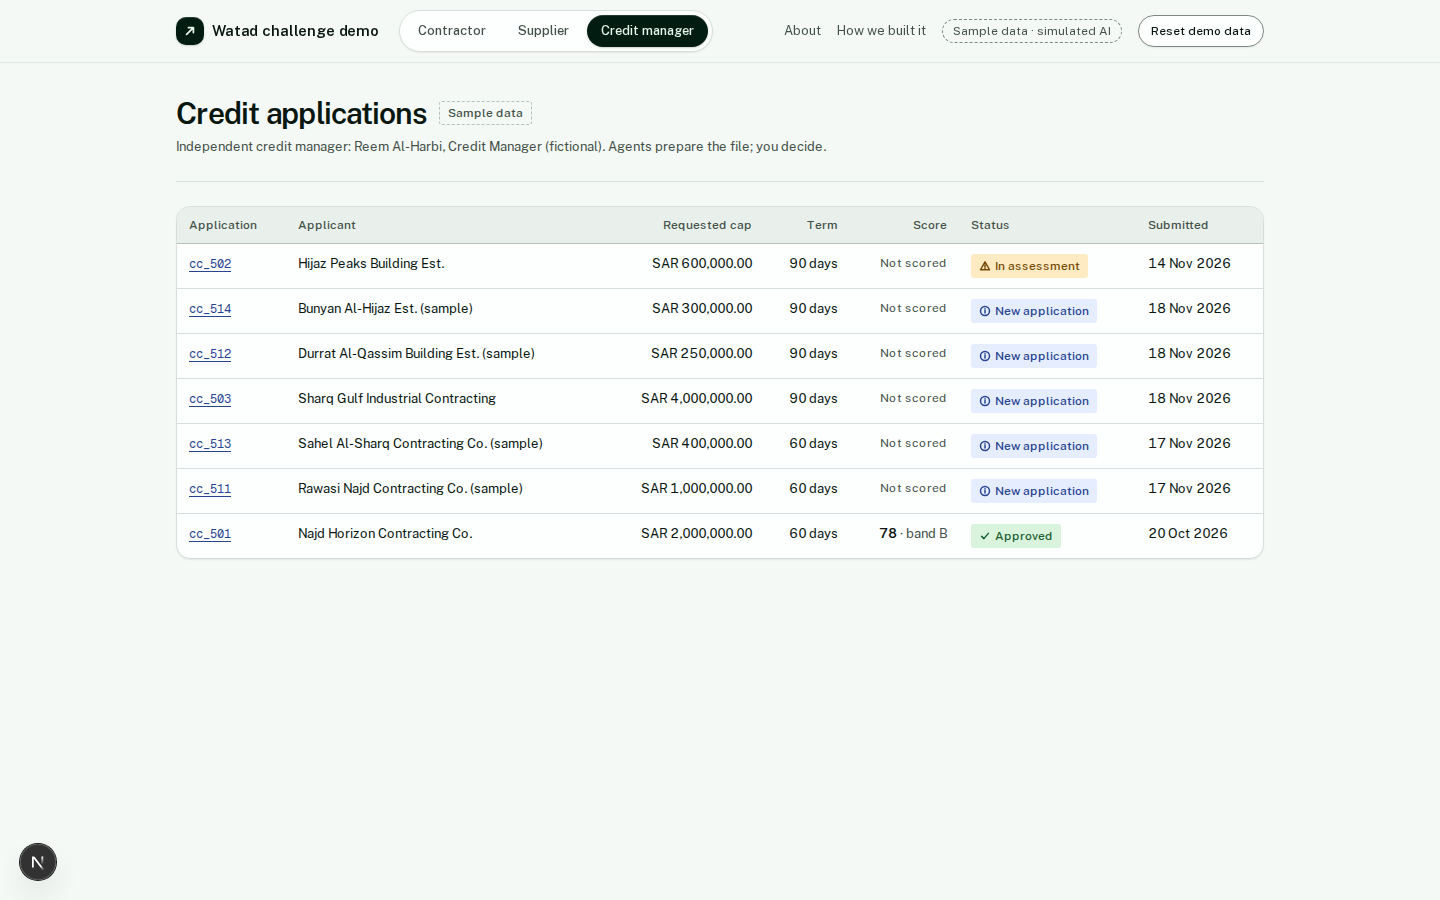
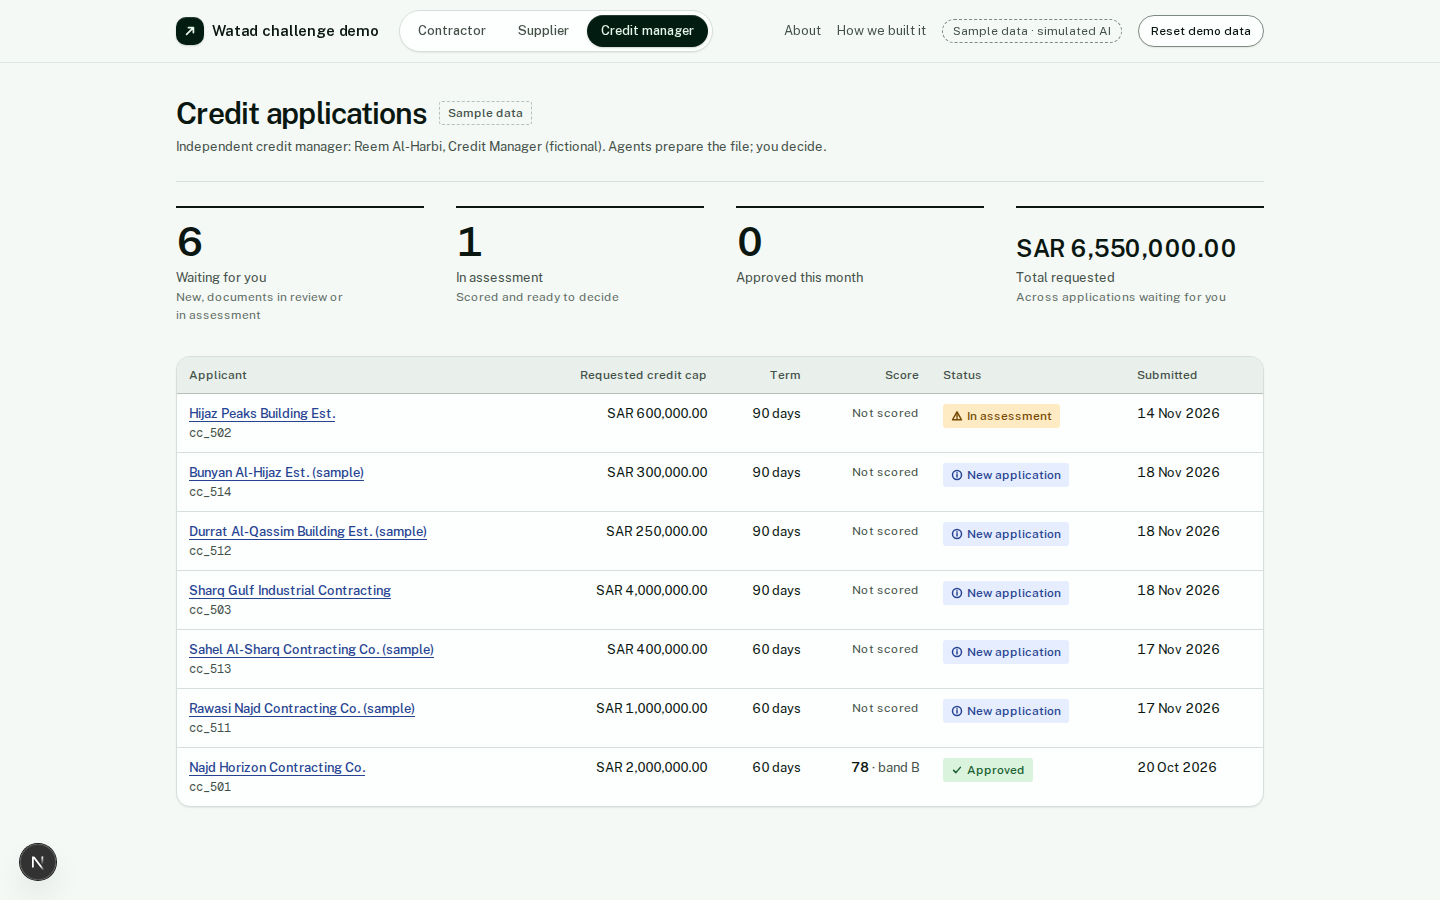
feat(credit): queue opens on its key figures
StatStrip from #68 above the credit queue: waiting for you, in
assessment, approved this month, total requested across waiting
applications (design review item 4).

Refs #13

diff --git a/src/components/credit/manager/queue.tsx b/src/components/credit/manager/queue.tsx
@@ -6,7 +6,8 @@ import { applicantName, reference } from "@/data";
 import { formatSar } from "@/domain/money";
 import type { CreditCase } from "@/domain/types";
 import { useDemo } from "@/store";
-import { CellNote, EmptyState, LoadingRows, Table, Td, Th, THead, Tr } from "@/components/ui";
+import { CellNote, EmptyState, LoadingRows, StatStrip, Table, Td, Th, THead, Tr } from "@/components/ui";
+import { useToday } from "../use-today";
 import { useHydrated } from "../client-state";
 import { CaseStatus, shortDate } from "./shared";
 
@@ -20,6 +21,16 @@ export function CreditQueue() {
     [all],
   );
   const hydrated = useHydrated();
+  const month = useToday().slice(0, 7);
+  const stats = useMemo(() => {
+    const waiting = all.filter((c) => c.status === "submitted" || c.status === "documents_review" || c.status === "in_assessment");
+    return [
+      { label: "Waiting for you", value: String(waiting.length), note: "New, documents in review or in assessment" },
+      { label: "In assessment", value: String(all.filter((c) => c.status === "in_assessment").length), note: "Ready for your decision" },
+      { label: "Approved this month", value: String(all.filter((c) => c.status === "approved" && c.decision?.decidedAt.slice(0, 7) === month).length) },
+      { label: "Total requested", value: formatSar(waiting.reduce((sum, c) => sum + c.requestedCap, 0) as typeof all[number]["requestedCap"]), note: "Across applications waiting for you", compact: true },
+    ];
+  }, [all, month]);
   if (!hydrated) return <LoadingRows rows={6} label="Loading credit applications" />;
   if (cases.length === 0) {
     return (
@@ -29,38 +40,43 @@ export function CreditQueue() {
     );
   }
   return (
-    <Table caption="Credit applications" minWidth={760}>
-      <THead>
-        <tr>
-          <Th>Applicant</Th>
-          <Th align="end">Requested credit cap</Th>
-          <Th align="end">Term</Th>
-          <Th align="end">Score</Th>
-          <Th>Status</Th>
-          <Th>Submitted</Th>
-        </tr>
-      </THead>
-      <tbody>
-        {cases.map((c) => (
-          <Tr key={c.id} data-testid={`credit-queue-row-${c.id}`}>
-            <Td>
-              <Link href={`/credit/cases/${c.id}`} className="font-medium text-stamp underline underline-offset-[3px]">
-                {applicantName(c.contractorId, reference.contractors)}
-              </Link>
-              <CellNote>
-                <span className="font-mono">{c.id}</span>
-              </CellNote>
-            </Td>
-            <Td align="end">{formatSar(c.requestedCap)}</Td>
-            <Td align="end">{c.requestedTenorDays} days</Td>
-            <Td align="end">{c.scorecard ? <span className="font-semibold tabular-nums text-ink">{Math.round(c.scorecard.total)}<span className="font-normal text-ink-muted"> · band {c.scorecard.band}</span></span> : <CellNote>Not scored</CellNote>}</Td>
-            <Td>
-              <CaseStatus status={c.status} />
-            </Td>
-            <Td>{shortDate(c.submittedAt)}</Td>
-          </Tr>
-        ))}
-      </tbody>
-    </Table>
+    <div className="space-y-8">
+      <div data-testid="credit-queue-stats">
+        <StatStrip items={stats} />
+      </div>
+      <Table caption="Credit applications" minWidth={760}>
+        <THead>
+          <tr>
+            <Th>Applicant</Th>
+            <Th align="end">Requested credit cap</Th>
+            <Th align="end">Term</Th>
+            <Th align="end">Score</Th>
+            <Th>Status</Th>
+            <Th>Submitted</Th>
+          </tr>
+        </THead>
+        <tbody>
+          {cases.map((c) => (
+            <Tr key={c.id} data-testid={`credit-queue-row-${c.id}`}>
+              <Td>
+                <Link href={`/credit/cases/${c.id}`} className="font-medium text-stamp underline underline-offset-[3px]">
+                  {applicantName(c.contractorId, reference.contractors)}
+                </Link>
+                <CellNote>
+                  <span className="font-mono">{c.id}</span>
+                </CellNote>
+              </Td>
+              <Td align="end">{formatSar(c.requestedCap)}</Td>
+              <Td align="end">{c.requestedTenorDays} days</Td>
+              <Td align="end">{c.scorecard ? <span className="font-semibold tabular-nums text-ink">{Math.round(c.scorecard.total)}<span className="font-normal text-ink-muted"> · band {c.scorecard.band}</span></span> : <CellNote>Not scored</CellNote>}</Td>
+              <Td>
+                <CaseStatus status={c.status} />
+              </Td>
+              <Td>{shortDate(c.submittedAt)}</Td>
+            </Tr>
+          ))}
+        </tbody>
+      </Table>
+    </div>
   );
 }
